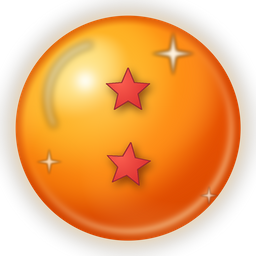
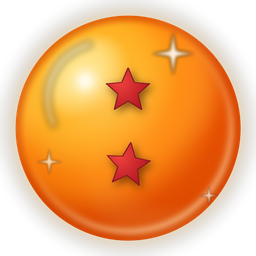
1~7성구 아이콘 다듬기(붉은 별 진하게·광택 정리) + README 검증 수치

Changed region(s): [[0.4062, 0.2812, 0.5938, 0.4375], [0.4375, 0.5625, 0.5938, 0.7188]]

diff --git a/tools/make_dragonballs.py b/tools/make_dragonballs.py
@@ -135,8 +135,7 @@ def draw_star(base: Image.Image, cx: float, cy: float, radius: float, rotation: 
     gx = (xx - (cx - radius * 0.35)) / (radius * 1.7)
     gy = (yy - (cy - radius * 0.40)) / (radius * 1.8)
     t = np.clip(np.sqrt(np.clip(gx * gx + gy * gy, 0.0, 4.0)) / 1.15, 0.0, 1.0)
-    star_rgb = mix((255, 126, 104), (176, 8, 26), t)
-    star_rgb = mix(star_rgb, (248, 52, 46), 0.42)
+    star_rgb = mix((240, 66, 62), (152, 4, 20), t)
     star_alpha = np.asarray(mask, dtype=np.float32)
     layer = np.dstack([star_rgb, star_alpha]).astype(np.uint8)
     base.alpha_composite(Image.fromarray(layer, 'RGBA'))
@@ -144,7 +143,7 @@ def draw_star(base: Image.Image, cx: float, cy: float, radius: float, rotation: 
     # 진한 테두리
     ImageDraw.Draw(base).line(
         poly + [poly[0]],
-        fill=(138, 6, 20, 220),
+        fill=(122, 4, 16, 235),
         width=max(2, int(radius * 0.05)),
         joint='curve',
     )
@@ -153,12 +152,12 @@ def draw_star(base: Image.Image, cx: float, cy: float, radius: float, rotation: 
     glint = Image.new('RGBA', base.size, (0, 0, 0, 0))
     ImageDraw.Draw(glint).ellipse(
         [
-            cx - radius * 0.46 - radius * 0.19,
-            cy - radius * 0.52 - radius * 0.11,
-            cx - radius * 0.46 + radius * 0.19,
-            cy - radius * 0.52 + radius * 0.11,
+            cx - radius * 0.50 - radius * 0.13,
+            cy - radius * 0.54 - radius * 0.075,
+            cx - radius * 0.50 + radius * 0.13,
+            cy - radius * 0.54 + radius * 0.075,
         ],
-        fill=(255, 232, 224, 200),
+        fill=(255, 240, 232, 120),
     )
     base.alpha_composite(Image.composite(glint.filter(ImageFilter.GaussianBlur(radius * 0.05)),
                                          Image.new('RGBA', base.size, (0, 0, 0, 0)), mask))

diff --git a/README.md b/README.md
@@ -288,7 +288,7 @@ python3 -c "import pglast; pglast.parse_sql(open('supabase/schema.sql').read())"
 #    Supabase SQL Editor 에 supabase/verify-2026-11-21-kintoun-dragonball.sql 을 붙여넣고 실행
 ```
 
-결과: 단위 테스트 전부 통과(**267건** — 날짜·집계·학원/숙제 분리 집계·기록 수정 계산·비율·랭킹·타이머·기기 판별·질문(Q&A)·알림(VAPID 키·기기 판별·구독 저장 모양·오류 문구)·근두운(닉네임·시간·구름·실시간 순위·타이머 근두운 줄·드래곤볼) 계산, 랭킹 전체/학원/숙제 분리·드래곤볼 순위·동점 처리 포함, 관리자 좌우 스와이프 42건(60px·1.5배 기준, 첫/끝 탭, 입력창·모달·가로 스크롤 예외, 컨테이너 바깥 무시)), **20개 화면** 모두 렌더 성공(관리자 알림 카드·근두운 패널 포함), `schema.sql`/`seed.sql`/`migrate-2026-11-21-questions.sql`/`migrate-2026-11-21-push.sql`/`migrate-2026-11-21-kintoun-dragonball.sql` 문법 오류 없음, 근두운 SQL 검증 7건 통과(검증 데이터는 되돌림 — 남은 검증용 학생 0명).
+결과: 단위 테스트 전부 통과(**287건** — 날짜·집계·학원/숙제 분리 집계·기록 수정 계산·비율·랭킹·타이머·기기 판별·질문(Q&A)·알림(VAPID 키·기기 판별·구독 저장 모양·오류 문구)·근두운(닉네임·시간·구름·실시간 순위·타이머 근두운 줄·드래곤볼) 계산, 랭킹 전체/학원/숙제 분리·드래곤볼 순위·동점 처리 포함, 관리자 좌우 스와이프 42건(60px·1.5배 기준, 첫/끝 탭, 입력창·모달·가로 스크롤 예외, 컨테이너 바깥 무시)), **21개 화면** 모두 렌더 성공(관리자 알림 카드·근두운 패널·세션 넘긴 근두운 줄 포함), `schema.sql`/`seed.sql`/`migrate-2026-11-21-questions.sql`/`migrate-2026-11-21-push.sql`/`migrate-2026-11-21-kintoun-dragonball.sql`/`migrate-2026-11-21-dragonball-stars.sql` 문법 오류 없음, 근두운 SQL 검증 7건 통과(검증 데이터는 되돌림 — 남은 검증용 학생 0명).
 기기 판별(학생 화면 PC 차단) 테스트 16건도 함께 통과합니다 — 아이폰·아이패드·안드로이드 허용, 윈도우·맥·리눅스·크롬북(터치 노트북 포함) 차단.
 화면 점검에는 `선오공에게 질문하기` 홈·타이머 버튼, 학생 질문 화면, 질문 올리기 폼, 관리자 질문함(자동 정리 안내 포함), 관리자 상단 탭 이름(`실시간`), 숙제 타이머의 근두운 줄(학원 타이머에는 없음), 학생 관리의 닉네임 열·`바꾸기` 버튼이 모두 들어 있습니다.
 `'선오공이에게'` 대신 `'선오공에게'` 로만 표기되는지도 테스트로 확인합니다.
